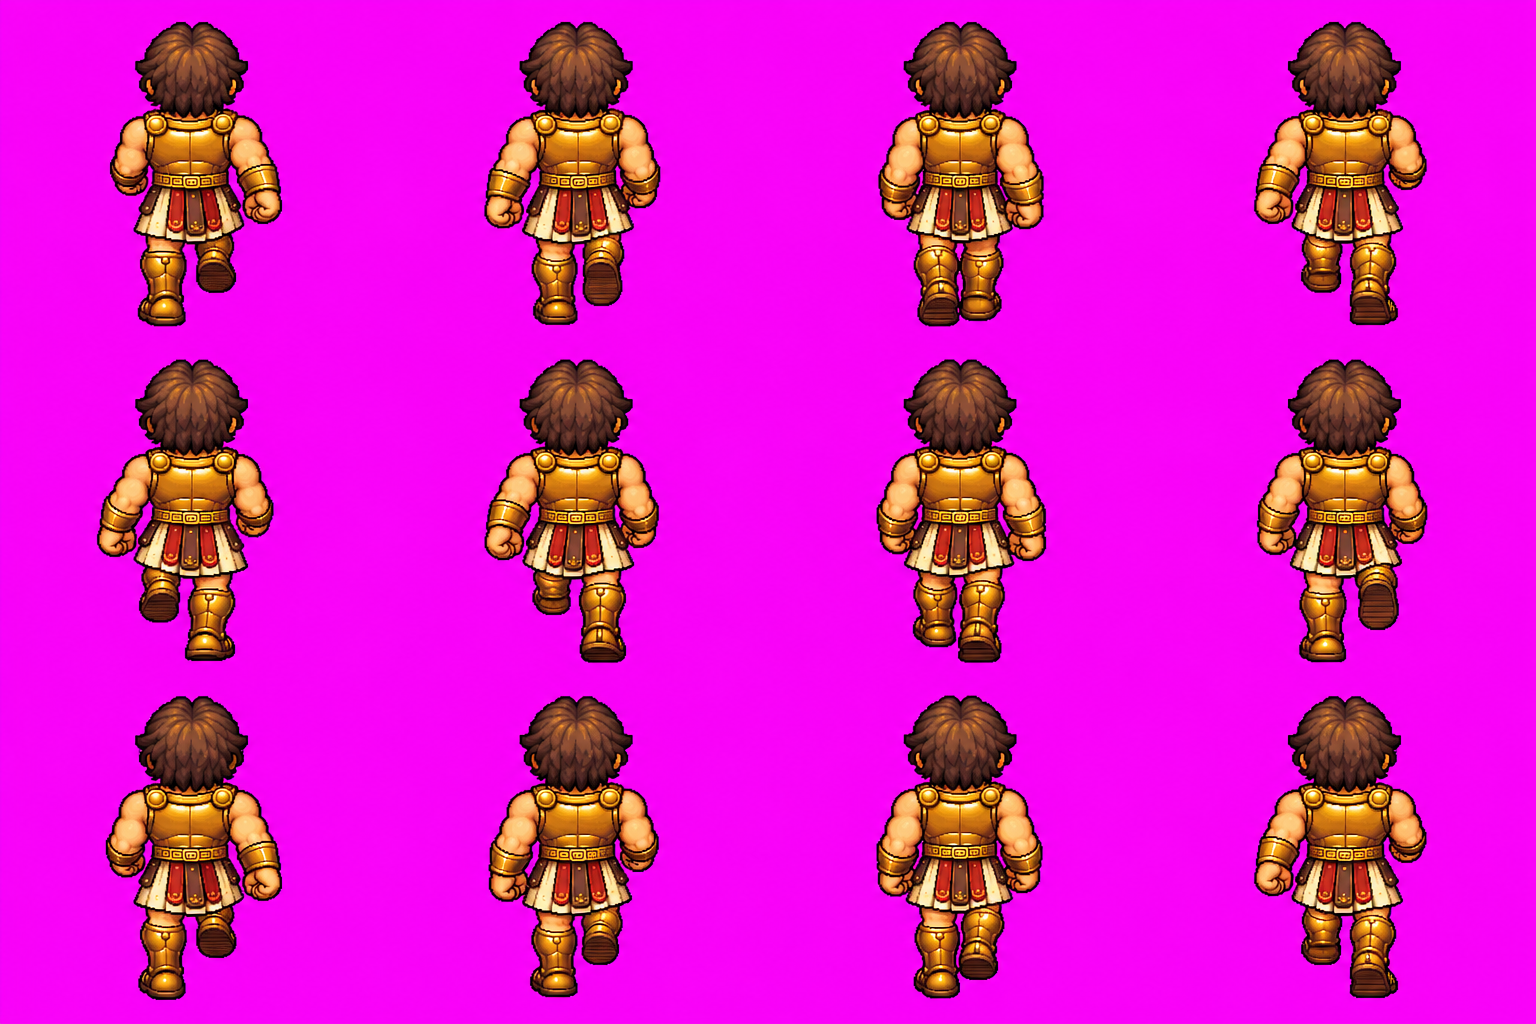
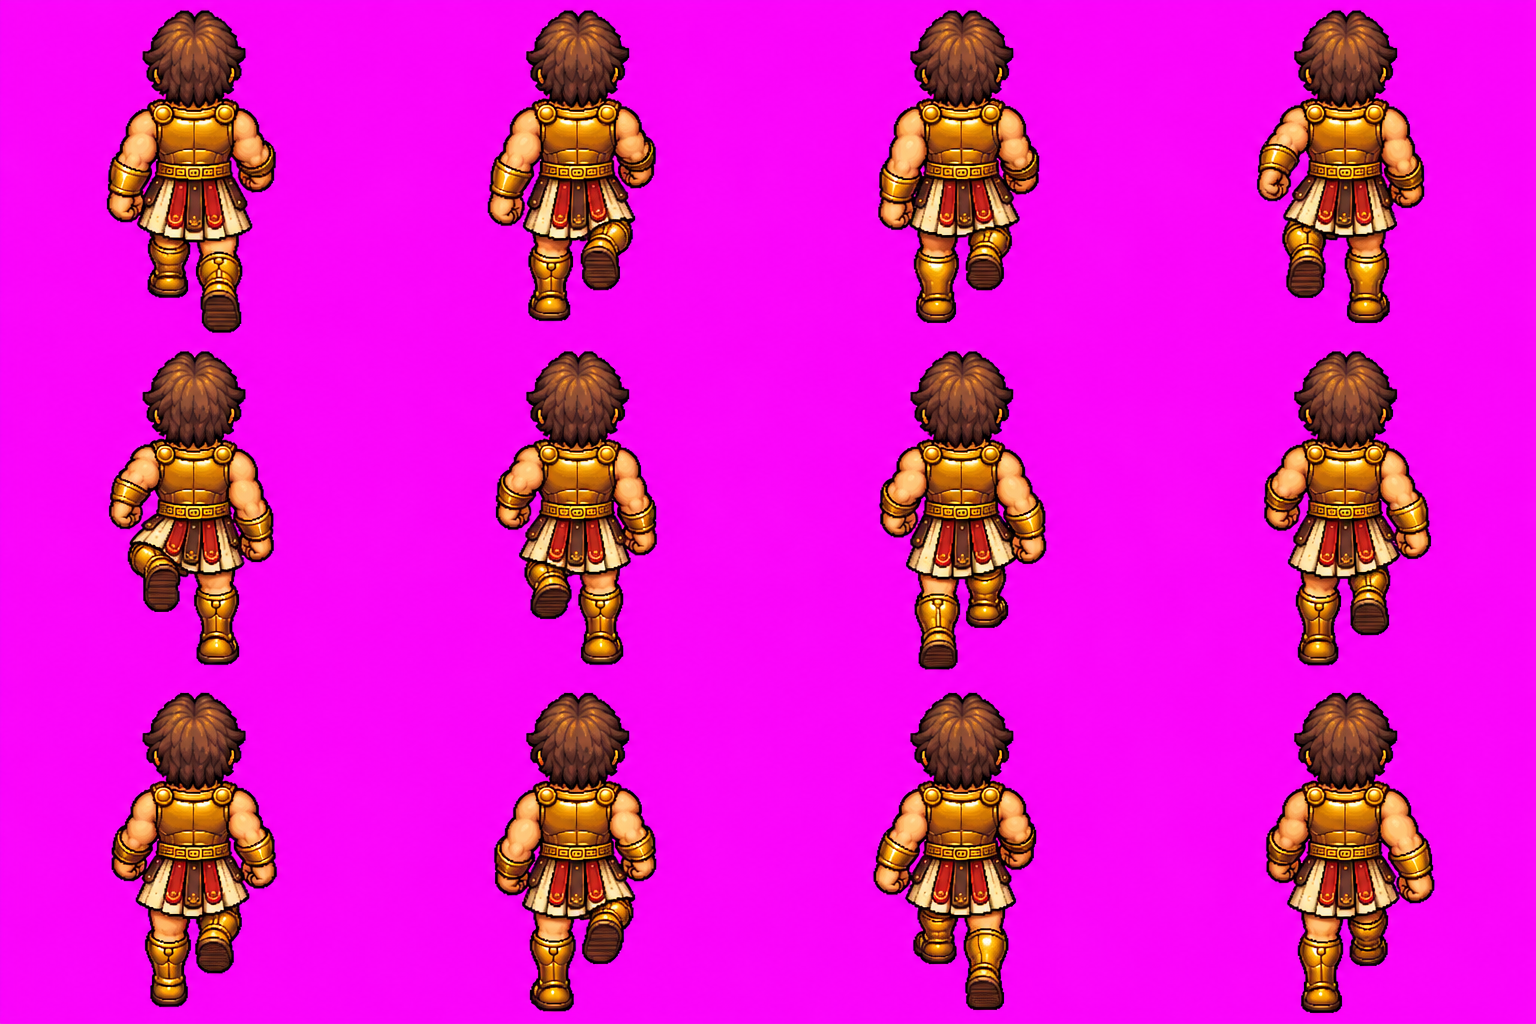
feat : 남·북 걷기를 움직임 안내 그림으로 다시 받고 달리기를 새 차림 12프레임으로 교체 — walk_guide.py에 달리기 모드(디딤 3장·두 발 뜸 3장, 뒷발 차올림, 무릎 들기, 팔꿈치 직각 젓기), pack_strip.py는 달리기 때 뜬 높이를 살림, gen_hero.py 달리기 손 위치·좌우 뒤집기·주먹 추적을 걷기와 같게, OUTFIT.md에 달리기 요청 절·README 반영

diff --git a/godot/tools/walk_guide.py b/godot/tools/walk_guide.py
@@ -1,14 +1,21 @@
-"""걷기 12장 움직임 안내 그림(Codex 요청에 붙인다). 다리·팔을 옆 평면(앞 u, 높이 h)에서 풀고 화면으로 비춘다.
+"""걷기·달리기 12장 움직임 안내 그림(Codex 요청에 붙인다). 다리·팔을 옆 평면(앞 u, 높이 h)에서 풀고 화면으로 비춘다.
 디딘 발은 한 장마다 같은 만큼 뒤로 가고, 팔은 같은 쪽 다리와 반대로 흔든다.
-사용: python3 tools/walk_guide.py <출력.png> <앞 x> <앞 y> <오른쪽 x> <오른쪽 y> [back]
-  동 1 0 0 0.5 / 남동 0.71 0.35 -0.71 0.35 / 북동 0.71 -0.35 0.71 0.35 / 북 0 -0.3 1.6 0 back
+달리기(run)는 디딘 발이 3장만 땅에 닿고(한 장마다 걷기보다 많이 뒤로) 나머지는 두 발이 다 뜨며,
+뒷발은 엉덩이 쪽으로 차올렸다가 무릎을 높이 들어 앞으로 뻗고, 팔은 직각으로 굽혀 크게 젓는다.
+사용: python3 tools/walk_guide.py <출력.png> <앞 x> <앞 y> <오른쪽 x> <오른쪽 y> [back] [run]
+  동 1 0 0 0.5 / 남동 0.71 0.35 -0.71 0.35 / 북동 0.71 -0.35 0.71 0.35 / 북 0 -0.3 1.6 0 back / 남 0 0.3 -1.6 0 back
 """
 import math, sys
 from PIL import Image, ImageDraw
 out, fx, fy, rx, ry = sys.argv[1], *map(float, sys.argv[2:6])   # 앞 방향·오른쪽 방향의 화면 벡터
-BACK = len(sys.argv) > 6   # 뒷모습: 다리가 한 줄로 겹치므로 무릎을 바깥으로 빼고 든 발은 발바닥을 그린다
+BACK = "back" in sys.argv[6:]   # 앞·뒷모습: 다리가 한 줄로 겹치므로 무릎을 바깥으로 빼고 든 발은 발바닥을 그린다
+RUN = "run" in sys.argv[6:]
 CW, CH = 384, 341
 L, TH, SH, LIFT, HIP, SIDE = 62, 70, 70, 30, 134, 14
+# 달리기 한 발의 12장 궤적(u, h): 0~2 디딤(한 장에 RUN_STEP씩 뒤로), 3~5 차고 올림, 6~8 무릎 들어 앞으로, 9~11 내려 디딤 준비
+RUN_STEP = 24   # 118px/s ÷ 26fps를 걷기와 같은 비율로 바꾼 값
+RUN_FOOT = [(RUN_STEP, 0), (0, 0), (-RUN_STEP, 0), (-50, 22), (-42, 58), (-24, 80),
+            (6, 82), (36, 70), (58, 46), (60, 20), (46, 8), (34, 3)]
 img = Image.new("RGB", (CW*4, CH*3), (255,255,255)); dr = ImageDraw.Draw(img)
 def ik(hu, hh, fu, fh):
     du, dh = fu-hu, fh-hh; d = min(math.hypot(du, dh), TH+SH-1)
@@ -16,17 +23,24 @@ def ik(hu, hh, fu, fh):
     return hu+TH*math.cos(a+b), hh+TH*math.sin(a+b)        # 무릎은 앞으로
 for i in range(12):
     c, r = i % 4, i // 4; ox, oy = c*CW + CW//2, r*CH + 265
-    t = (i % 6) / 6
-    sup = (L - 2*L*t, 0.0)
-    sw = (-L + 2*L*(0.5-0.5*math.cos(math.pi*t)), math.sin(math.pi*t)*LIFT)
-    hip = (0.0, HIP - 4*math.cos(2*math.pi*t))
-    legs = {"R": sup, "L": sw} if i < 6 else {"L": sup, "R": sw}
+    if RUN:
+        legs = {"R": RUN_FOOT[i], "L": RUN_FOOT[(i + 6) % 12]}
+        hip = (6.0, HIP + (-4, -8, -4, 4, 8, 4)[i % 6])   # 디딜 때 낮고 떴을 때 높다
+        step = RUN_STEP
+    else:
+        t = (i % 6) / 6
+        sup = (L - 2*L*t, 0.0)
+        sw = (-L + 2*L*(0.5-0.5*math.cos(math.pi*t)), math.sin(math.pi*t)*LIFT)
+        hip = (0.0, HIP - 4*math.cos(2*math.pi*t))
+        legs = {"R": sup, "L": sw} if i < 6 else {"L": sup, "R": sw}
+        step = 2*L/6
     P = lambda u, h, s: (ox + u*fx + s*rx, oy + u*fy + s*ry - h)
     # 땅 눈금(앞 방향 선 위에서 디딘 발과 같이 뒤로)
     a0, a1 = P(-150, 0, 0), P(150, 0, 0); dr.line([a0, a1], fill=(150,150,150), width=2)
     for k in range(-7, 8):
-        u = k*20 - (i*2*L/6) % 20; p = P(u, 0, 0); dr.ellipse([p[0]-3, p[1]-3, p[0]+3, p[1]+3], fill=(150,150,150))
+        u = k*20 - (i*step) % 20; p = P(u, 0, 0); dr.ellipse([p[0]-3, p[1]-3, p[0]+3, p[1]+3], fill=(150,150,150))
     parts = []
+    lean = 10 if RUN else 0   # 달릴 땐 어깨가 엉덩이보다 앞
     for s in ("R", "L"):
         side = SIDE if s == "R" else -SIDE; col = (220,30,30) if s == "R" else (40,90,230)
         fu, fh = legs[s]; ku, kh = ik(hip[0], hip[1], fu, fh)
@@ -37,20 +51,26 @@ for i in range(12):
             f = P(fu, fh, side); big = 4 + fh * 0.35   # 들수록 발바닥이 크게 보인다
             dr.ellipse([f[0]-12, f[1]-big, f[0]+12, f[1]+big], outline=col, width=3)
         # 팔: 같은 쪽 다리와 반대로 흔든다(오른발이 앞이면 오른팔은 뒤)
-        sh_h = hip[1] + 62; aside = side * 1.9
-        ang = -0.55 * (fu / L)                       # 앞(+)·뒤(-) 흔들림 각도
-        eu, eh = 30*math.sin(ang), sh_h - 30*math.cos(ang)
-        hu, hh = eu + 28*math.sin(ang + 0.5), eh - 28*math.cos(ang + 0.5)
-        apts = [P(0, sh_h, aside), P(eu, eh, aside), P(hu, hh, aside)]
+        sh_u, sh_h = hip[0] + lean, hip[1] + 62; aside = side * 1.9
+        if RUN:
+            k = i if s == "R" else i + 6
+            ang = -0.9 * math.sin(2 * math.pi * (k - 5) / 12)   # 다리가 가장 앞(8장)일 때 팔은 가장 뒤
+            bend = 1.5                                          # 팔꿈치 직각
+        else:
+            ang = -0.55 * (fu / L)                       # 앞(+)·뒤(-) 흔들림 각도
+            bend = 0.5
+        eu, eh = sh_u + 30*math.sin(ang), sh_h - 30*math.cos(ang)
+        hu, hh = eu + 28*math.sin(ang + bend), eh - 28*math.cos(ang + bend)
+        apts = [P(sh_u, sh_h, aside), P(eu, eh, aside), P(hu, hh, aside)]
         acol = (130,0,0) if s == "R" else (0,40,140)
         parts.append((P(hu, hh, aside)[1] + 1000, apts, acol, 7, P(hu, hh, aside)))
-    h0 = P(0, hip[1], 0)
-    dr.line([h0, (h0[0], h0[1]-70)], fill=(0,0,0), width=6)
+    h0 = P(hip[0], hip[1], 0); s0 = P(hip[0] + lean, hip[1] + 62, 0)
+    dr.line([h0, s0], fill=(0,0,0), width=6)
     for _, pts, col, w, fist in sorted(parts, key=lambda q: q[0]):   # 먼 것부터
         dr.line(pts, fill=col, width=w)
         if fist: dr.ellipse([fist[0]-9, fist[1]-9, fist[0]+9, fist[1]+9], fill=col)
     dr.ellipse([h0[0]-10, h0[1]-10, h0[0]+10, h0[1]+10], fill=(0,0,0))
-    sh0 = P(0, hip[1] + 62, 0); dr.line([P(0, hip[1]+62, -SIDE*1.9), P(0, hip[1]+62, SIDE*1.9)], fill=(0,0,0), width=6)
-    dr.ellipse([sh0[0]-22, sh0[1]-70, sh0[0]+22, sh0[1]-26], outline=(0,0,0), width=4)
+    dr.line([P(hip[0] + lean, hip[1]+62, -SIDE*1.9), P(hip[0] + lean, hip[1]+62, SIDE*1.9)], fill=(0,0,0), width=6)
+    dr.ellipse([s0[0]-22, s0[1]-70, s0[0]+22, s0[1]-26], outline=(0,0,0), width=4)
     dr.text((c*CW+10, r*CH+8), str(i+1), fill=(0,0,0))
 img.save(out)

diff --git a/godot/tools/pack_strip.py b/godot/tools/pack_strip.py
@@ -6,6 +6,8 @@
 서·북서·남서는 동·북동·남동 줄을 좌우로 뒤집어 만든다(손 위치는 gen_hero.py의 STRIP_MIRROR).
 방향마다 따로 그려 받아 크기가 조금씩 다르므로, 방향마다 키(가운데값)를 CHAR_H로 맞추고
 프레임마다 발을 같은 기준선에 둔다(걷기는 늘 한 발이 땅에 닿아 있다).
+달리기(FLIGHT)는 두 발이 다 뜨는 장면이 있으므로 받은 칸에서 그 방향의 가장 낮은 발보다 떠 있는 만큼을 살리고,
+다리를 접고 펴는 만큼 키가 달라지므로 키는 맞추지 않는다.
 
 출력: assets/source/odysseus_<동작>_8dir.webp (줄 = 남→남동→동→북동→북→북서→서→남서, 칸 CELL×CELL)
 사용: python3 tools/pack_strip.py <godot 프로젝트 폴더> <동작> [격자 열 수] [격자 줄 수]
@@ -23,6 +25,7 @@ CHAR_H = 216
 BASE_Y = 244
 FIT_TOL = 0.01
 DRAWN = ["S", "SE", "E", "NE", "N"]
+FLIGHT = {"run"}
 # 8방향 한 장의 줄 순서 → (받은 방향, 좌우 뒤집기)
 ROWS = [("S", False), ("SE", False), ("E", False), ("NE", False), ("N", False),
         ("NE", True), ("E", True), ("SE", True)]
@@ -38,7 +41,7 @@ def load(root, anim, d):
 
 
 def frames(src, cols, rows):
-    """격자 칸마다 배경을 지운 인물만 잘라 낸 RGBA 목록(읽는 순서)."""
+    """격자 칸마다 배경을 지운 인물만 잘라 낸 (RGBA, 칸 안 발끝 y) 목록(읽는 순서)."""
     cw, ch = src.width / cols, src.height / rows
     out = []
     for r in range(rows):
@@ -50,7 +53,8 @@ def frames(src, cols, rows):
                     if is_bg(px[x, y]):
                         px[x, y] = (0, 0, 0, 0)
             # 칸 테두리에 걸친 이웃 칸 조각을 빼려고 가장 큰 덩어리 둘레만 쓴다
-            out.append(cell.crop(main_box(cell)))
+            box = main_box(cell)
+            out.append((cell.crop(box), box[3]))
     return out
 
 
@@ -77,10 +81,10 @@ def main_box(cell):
     return (x0, y0, x1, y1)
 
 
-def fit(f, k):
+def fit(f, k, tol=FIT_TOL):
     """방향 배율 k로 줄이되, 키가 CHAR_H에서 FIT_TOL 넘게 벗어난 장면(그려 받을 때 칸마다 키가 들쭉날쭉한 것)만
     그 경계로 맞춘다. 발을 기준선에 두므로 키가 튀면 머리가 그만큼 깡충거린다."""
-    h = min(max(f.height * k, CHAR_H * (1 - FIT_TOL)), CHAR_H * (1 + FIT_TOL))
+    h = min(max(f.height * k, CHAR_H * (1 - tol)), CHAR_H * (1 + tol))
     k = h / f.height
     return f.resize((max(1, round(f.width * k)), max(1, round(f.height * k))), Image.LANCZOS)
 
@@ -94,19 +98,22 @@ def head_cx(f):
 
 
 def main(root, anim, cols=4, rows=3):
-    drawn = {}
+    drawn, lift = {}, {}
+    flight = anim in FLIGHT
     for d in DRAWN:
         fr = frames(load(root, anim, d), cols, rows)
-        hs = sorted(f.height for f in fr)
+        hs = sorted(f.height for f, _ in fr)
         k = CHAR_H / hs[len(hs) // 2]
-        drawn[d] = [fit(f, k) for f in fr]
+        drawn[d] = [fit(f, k, 1.0 if flight else FIT_TOL) for f, _ in fr]
+        base = max(b for _, b in fr)
+        lift[d] = [round((base - b) * k) if flight else 0 for _, b in fr]
     n = cols * rows
     sheet = Image.new("RGB", (CELL * n, CELL * len(ROWS)), MAGENTA)
     for row, (d, flip) in enumerate(ROWS):
         for i, f in enumerate(drawn[d]):
             if flip:
                 f = f.transpose(Image.FLIP_LEFT_RIGHT)
-            sheet.paste(f, (i * CELL + CELL // 2 - round(head_cx(f)), row * CELL + BASE_Y - f.height), f)
+            sheet.paste(f, (i * CELL + CELL // 2 - round(head_cx(f)), row * CELL + BASE_Y - lift[d][i] - f.height), f)
     out = root / f"assets/source/odysseus_{anim}_8dir.webp"
     sheet.save(out, lossless=True)
     print(out.relative_to(root), sheet.size)

diff --git a/godot/tools/gen_hero.py b/godot/tools/gen_hero.py
@@ -90,18 +90,16 @@ def to_pose(cell, foot, height, k=None):
 STRIP_ROWS = [2, 1, 0, 7, 6, 5, 4, 3]
 # 첫 프레임의 오른손·왼손 주먹 중심(받은 그림의 칸 안 픽셀). 가려진 손은 몸 쪽으로 어림
 STRIP_HANDS = {
-    "walk": {2: (72, 163, 187, 163), 1: (85, 165, 180, 152), 0: (84, 157, 169, 145), 7: (167, 152, 84, 148),
-             6: (176, 156, 84, 139)},
-    "run": {2: (35, 70, 82, 70), 1: (52, 72, 83, 72), 0: (78, 72, 68, 70), 7: (85, 70, 70, 65),
-            6: (88, 72, 25, 82), 5: (90, 65, 28, 62), 4: (55, 70, 30, 82), 3: (25, 72, 68, 78)},
+    "walk": {2: (77, 157, 177, 155), 1: (85, 165, 180, 152), 0: (84, 157, 169, 145), 7: (167, 152, 84, 148),
+             6: (174, 138, 81, 157)},
+    "run": {2: (77, 135, 155, 118), 1: (87, 140, 168, 105), 0: (107, 155, 168, 110), 7: (172, 83, 83, 130),
+            6: (170, 83, 70, 137)},
 }
 # 좌우를 뒤집어 만든 줄(pack_strip.py): 방향 → 뒤집은 원래 방향. 손은 원래 줄의 손을 뒤집고 오른손·왼손을 바꾼다
-STRIP_MIRROR = {"walk": {5: 7, 4: 0, 3: 1}}
+STRIP_MIRROR = {"walk": {5: 7, 4: 0, 3: 1}, "run": {5: 7, 4: 0, 3: 1}}
 STRIP_SWING = {"walk": 3.0, "run": 3.5}   # 팔 흔들림(원본 픽셀): 손 위치를 한 주기 동안 앞뒤로
 # 보이는 주먹은 첫 프레임에서부터 프레임마다 그림 조각을 맞춰 따라간다: 방향 → (오른손, 왼손)
-STRIP_TRACK = {"walk": {d: (True, True) for d in range(8)},
-               "run": {2: (True, True), 1: (True, True), 0: (True, False), 7: (True, False),
-                       6: (True, True), 5: (False, True), 4: (False, True), 3: (True, True)}}
+STRIP_TRACK = {"walk": {d: (True, True) for d in range(8)}, "run": {d: (True, True) for d in range(8)}}
 TRACK_R, TRACK_SEARCH = 5, 7   # 맞출 조각 반지름, 다음 프레임에서 찾는 범위(원본 픽셀)
 
 

diff --git a/godot/docs/sprite_request/OUTFIT.md b/godot/docs/sprite_request/OUTFIT.md
@@ -21,7 +21,7 @@
 
 1. 전투 갑옷 기본 8방향(맨머리·망토 없음) → `assets/source/odysseus_8dir.webp`
 2. 같은 차림 걷기 12프레임, 다섯 방향을 따로 받아 묶기(아래 2)
-3. 달리기·공격 4종 (`ATTACK_PROMPTS.md`의 인물 설명 두 줄을 아래 [인물]로 바꿔서)
+3. 달리기 12프레임(아래 3), 공격 4종 (`ATTACK_PROMPTS.md`의 인물 설명 두 줄을 아래 [인물]로 바꿔서)
 4. 투구·망토 레이어, 코드 작업
 5. 항해복·거지 변장은 챕터 2·6을 만들 때
 
@@ -30,7 +30,8 @@
 동·남동·북동·북은 처음 받은 그림이 다리를 늘 벌리거나 거의 안 움직여 땅 위에서 발이 미끄러지고 팔도 가슴 앞에 굳어 있어,
 움직임 안내 그림(`outfit/walk12_guide_<방향>.png`, `tools/walk_guide.py`: 디딘 발이 한 장마다 같은 만큼 뒤로, 팔은 다리와 반대로)을 붙여 다시 받았다.
 남동·북동은 몸 돌림이 장마다 달라져 "12장 모두 같은 만큼 돌린 채"를 덧붙여 한 번 더 받았다.
-달리기·공격은 아직 옛 그림(망토 있음)이라 달리거나 칠 때 옛 모습이 섞여 나온다.
+남·북도 안내 그림을 붙여 다시 받았다(북은 "발을 크게 벌리고 든 발바닥이 보이게"를 덧붙임).
+달리기도 같은 방식(아래 3)으로 다섯 방향을 받아 바꿨다. 공격은 아직 옛 그림(망토 있음)이라 칠 때 옛 모습이 섞여 나온다.
 
 ## [인물] — 다른 요청 프롬프트의 인물 설명 대신 쓰기
 
@@ -76,7 +77,7 @@ Style rules:
 
 남(S)·남동(SE)·동(E)·북동(NE)·북(N)을 따로 받고, 서쪽 셋은 뒤집어 만든다.
 첨부: 1의 기본 8방향에서 그 방향 칸을 잘라 낸 그림(`pose.png`), 움직임 참고 `outfit/walk12_motion_ref.webp`.
-동·남동·북동·북은 움직임 안내 `outfit/walk12_guide_<방향>.png`도 `guide.png`로 붙이고, Motion 대신 아래를 넣는다:
+다섯 방향 모두 움직임 안내 `outfit/walk12_guide_<방향>.png`도 `guide.png`로 붙이고, Motion 대신 아래를 넣는다:
 "MOTION: put his legs, feet, arms and fists where guide.png shows them. The standing foot slides steadily BACKWARD every frame,
 legs pass each other in frames 3-4 and 9-10. Arms hang down and swing like a pendulum OPPOSITE to the legs, never held up at the chest."
 받은 그림: `assets/source/odysseus_walk_<방향>.webp` → `python3 tools/pack_strip.py . walk 4 3` → `python3 tools/gen_hero.py .`
@@ -113,3 +114,21 @@ Style rules:
 - Isometric 3/4 top-down game view (camera looks down about 30 degrees).
 - EMPTY HANDS: no sword, no shield. Both hands closed fists.
 ```
+
+## 3. 달리기 12프레임 (방향마다 한 장, 다섯 방향)
+
+걷기(2)와 같은 첨부·배치·뒷손질에 안내 그림만 `python3 tools/walk_guide.py <출력> <방향 값> run`
+(`outfit/run12_guide_<방향>.png`: 디딤 3장 + 두 발이 다 뜬 3장, 뒷발 차올림, 무릎 높이, 팔꿈치 직각으로 크게 젓기).
+받은 그림: `assets/source/odysseus_run_<방향>.webp` → `python3 tools/pack_strip.py . run 4 3` → `python3 tools/gen_hero.py .`
+걷기 프롬프트에서 바꾸는 곳: 첫 줄 `12-frame RUN CYCLE (fast sprint)`, `__FACING__`의 walking → running, MOTION을 아래로.
+```
+- RUNNING, not walking: the upper body leans a little forward, the hair bounces.
+- LEGS: only ONE foot touches the ground in frames 1-3 and 7-9 and it slides BACKWARD fast like on a treadmill.
+  In frames 4-6 and 10-12 BOTH feet are OFF the ground (flight): the back foot kicks up behind toward the backside,
+  the other knee drives up high in front.
+- ARMS: elbows bent about 90 degrees, fists pumping hard forward and back OPPOSITE to the legs
+  (right knee up in front = right fist back by the hip, left fist forward at chin height). Never stiff, never both fists in front.
+- The ground line is at the same height near the bottom of every cell: the standing foot touches it,
+  in flight frames the whole body is a few pixels higher.
+```
+Style에 `no dust, no speed lines`를 더한다.

diff --git a/godot/README.md b/godot/README.md
@@ -132,8 +132,10 @@ tools/                 임시 그림 생성기 (Python + Pillow)
   `assets/sprites/odysseus.png`(128×128 칸, `scale` 0.5로 그려 1280×720 창에서 원본 픽셀 1:1)
 - 걷기·달리기는 그려 받은 그림(`assets/source/odysseus_{walk,run}_8dir.webp`, 줄 = 남→남동→…→남서)을 쓴다.
   걷기 12열(18fps), 달리기 12열(한 주기 = 두 걸음, 26fps). 첫 프레임 손 위치는 `gen_hero.py`의 `STRIP_HANDS`.
-  걷기는 남·남동·동·북동·북을 방향마다 한 장(4×3 격자)씩 받아(`odysseus_walk_<방향>.webp`) `tools/pack_strip.py`가
-  크기·발 기준선을 맞추고 머리를 칸 가운데 두어 묶고(키가 1% 넘게 튀는 장면만 키를 맞춤), 서쪽 셋은 좌우로 뒤집는다(손은 `STRIP_MIRROR`). 요청 프롬프트는 `docs/sprite_request/OUTFIT.md`
+  둘 다 남·남동·동·북동·북을 방향마다 한 장(4×3 격자)씩 받아(`odysseus_<동작>_<방향>.webp`) `tools/pack_strip.py`가
+  크기·발 기준선을 맞추고 머리를 칸 가운데 두어 묶고(걷기는 키가 1% 넘게 튀는 장면만 키를 맞추고, 달리기는 두 발이 뜬 높이를 살림),
+  서쪽 셋은 좌우로 뒤집는다(손은 `STRIP_MIRROR`). 요청 프롬프트는 `docs/sprite_request/OUTFIT.md`,
+  붙이는 움직임 안내 그림은 `tools/walk_guide.py`(달리기는 끝에 `run`)
   걷기·달리기의 보이는 주먹은 그림 조각을 프레임마다 맞춰 따라가고(`STRIP_TRACK`), 가려진 손은 팔 흔들림으로 어림한다
 - 공격 4종(attack1·2·3·heavy)도 그려 받은 8방향 한 장(`odysseus_<동작>_8dir.webp`, 열 = 프레임 수)을 쓴다.
   크기는 머리 폭을 걷기에 맞춰 줄이고, 검을 쥔 주먹은 프레임마다 `ATTACK_HANDS`, 방패 손은 `ATTACK_LEFT`.
